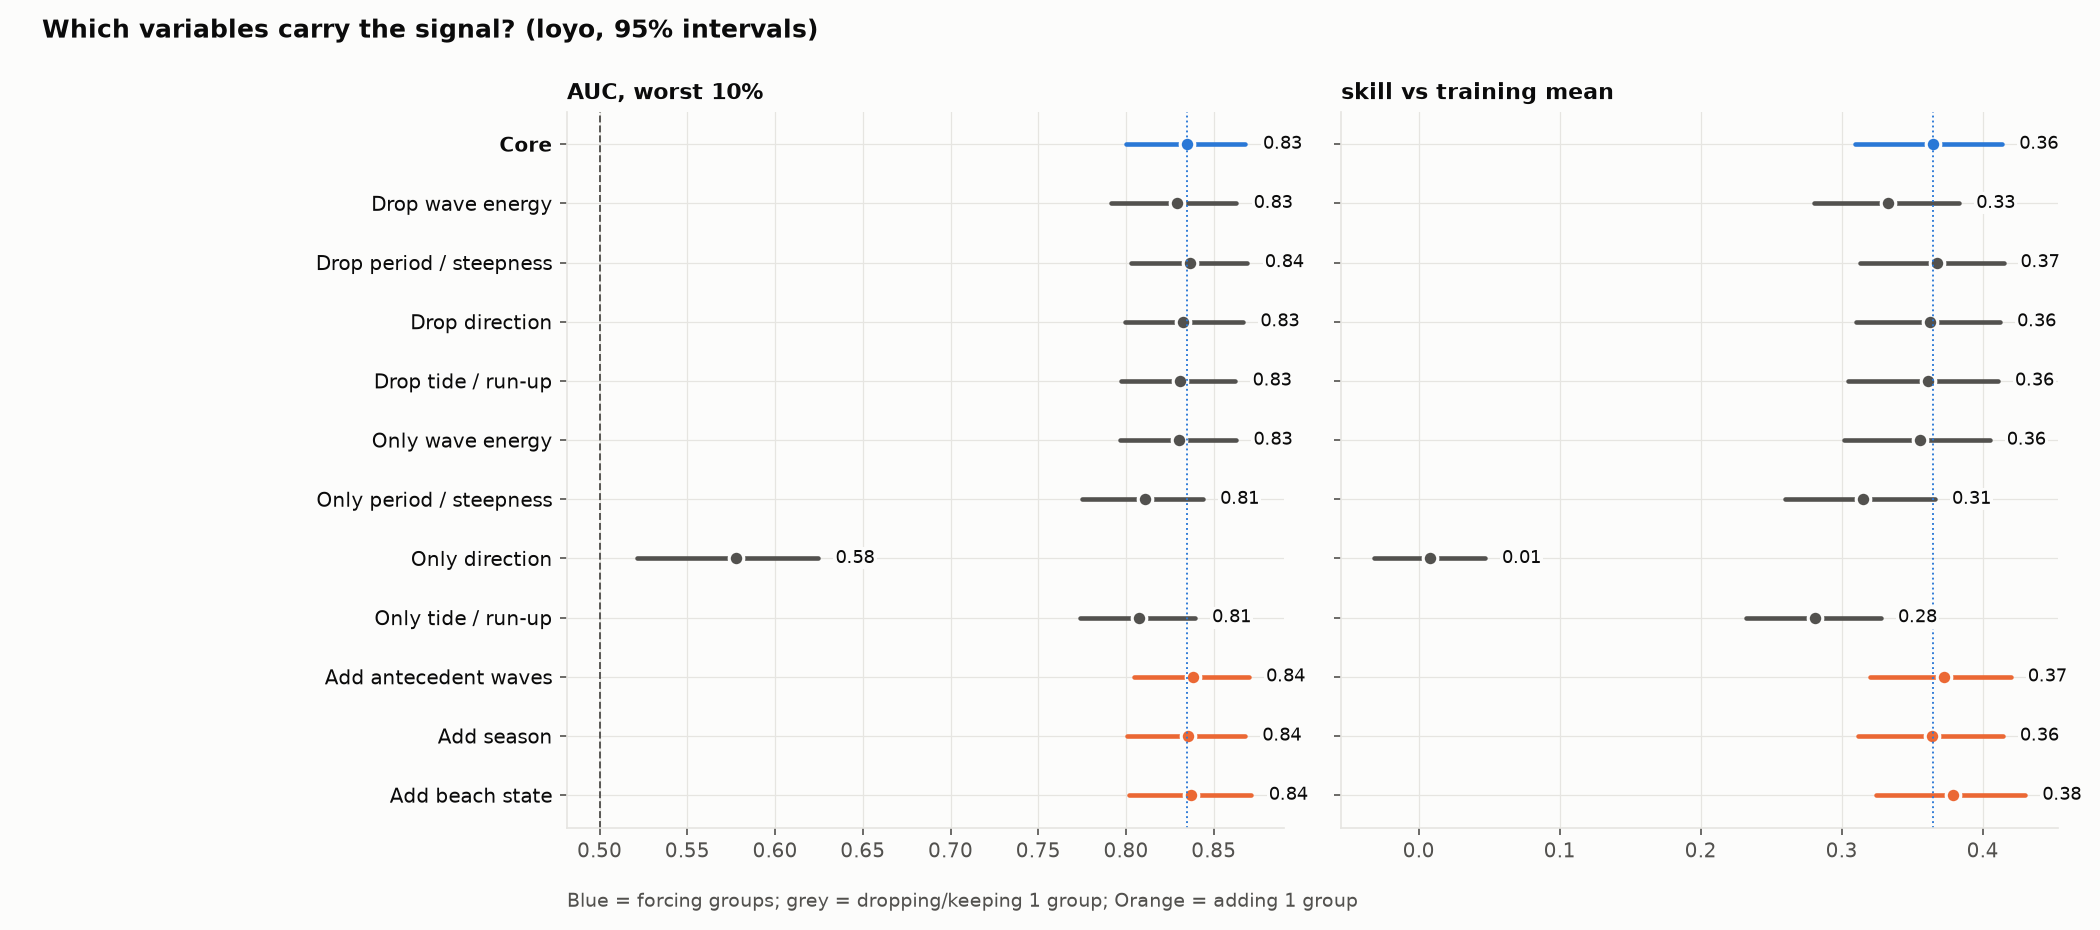
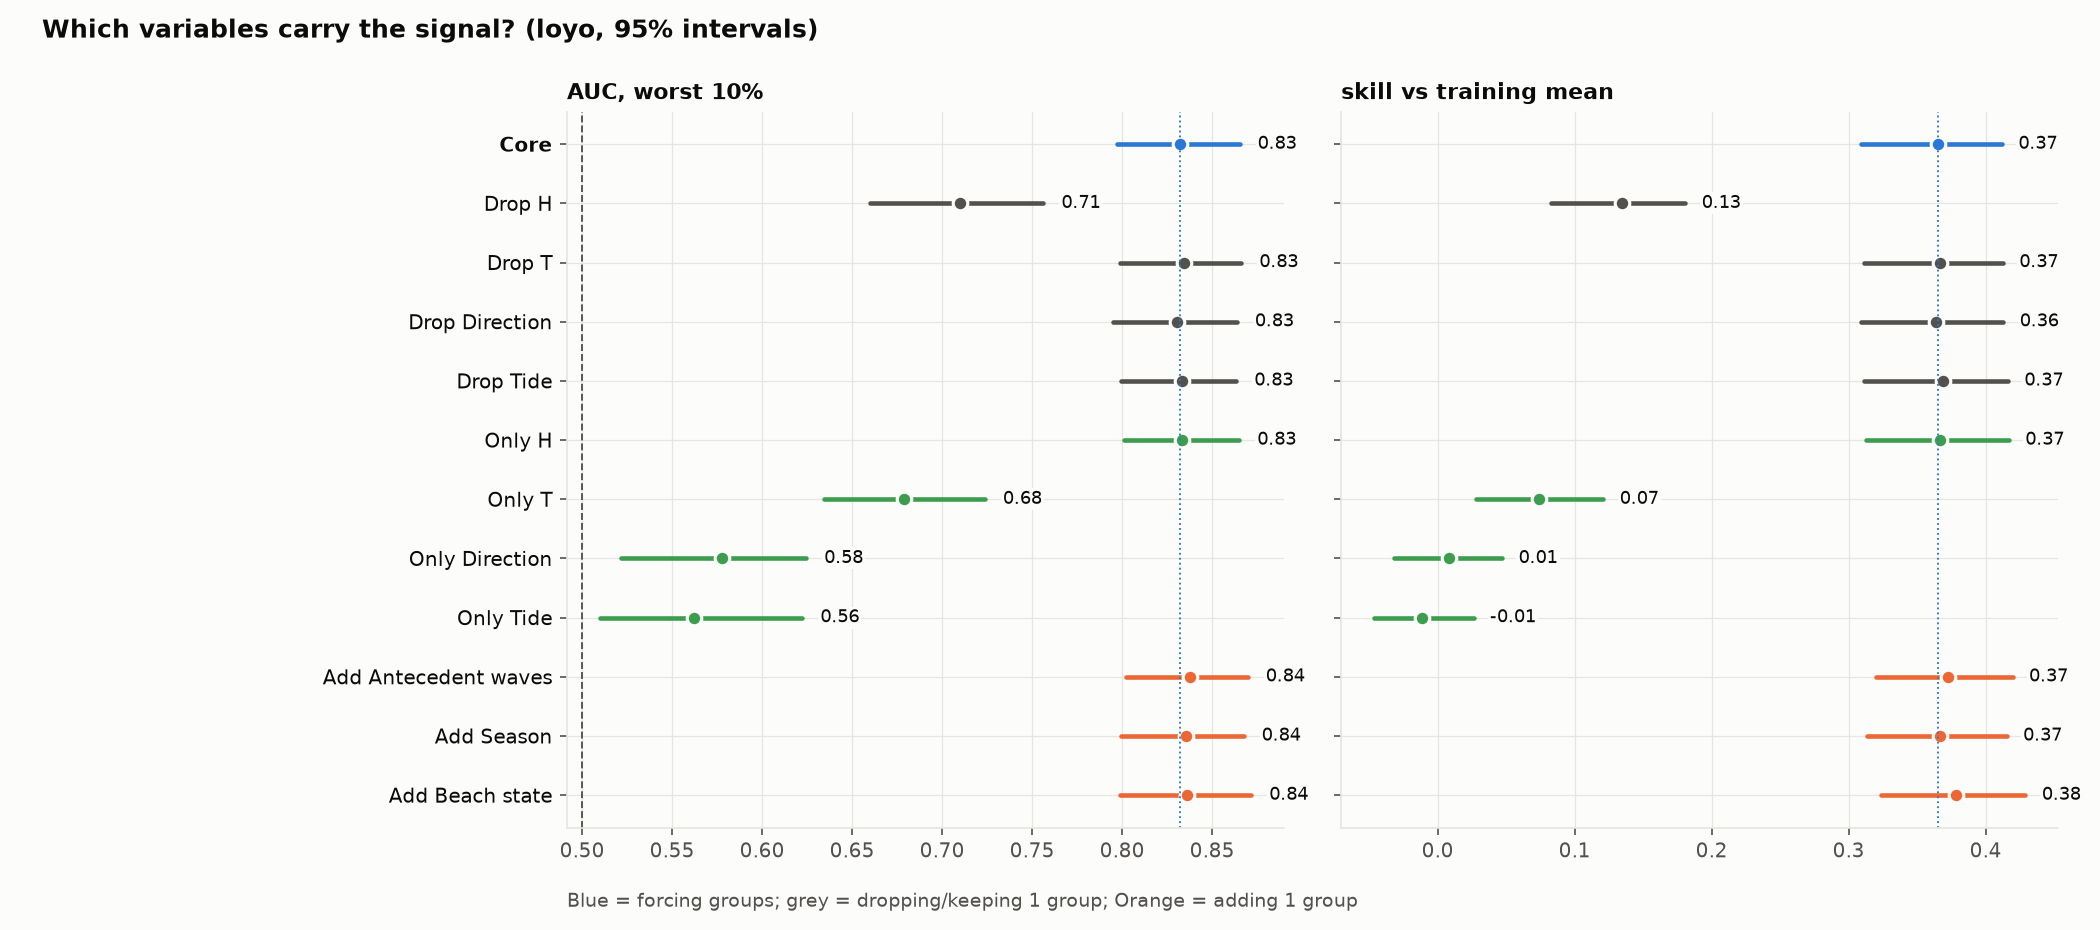
removed useless forcing variables

diff --git a/thesis/train_scalar.py b/thesis/train_scalar.py
@@ -12,10 +12,13 @@ from datetime import datetime, timedelta
 from sklearn.ensemble import RandomForestRegressor, RandomForestClassifier
 from sklearn.linear_model import LinearRegression
 from matplotlib.gridspec import GridSpec
+from scipy.stats import rankdata
 from sklearn.metrics import roc_auc_score
 
 import common
 import sys
+import matplotlib
+matplotlib.use("Agg")
 
 import numpy as np
 import matplotlib.pyplot as plt
@@ -129,16 +132,16 @@ print(f"{n_days} anchors ({DELTA}-day pairs) | erosion: mean {erosions.mean():.1
       f"extreme : erosion < {threshold:.1f} {UNIT} ({events.sum()} events)")
  
 GROUPS = {
-    "wave energy":        ["hmean", "hmax", "fluxmean", "fluxmax"],
-    "period / steepness": ["steepmean", "steepmax", "tmean", "tmax"],
-    "direction":          ["dirmean", "dirmax"],
-    "tide / run-up":      ["twlmean", "twlmax", "tidemean", "tidemax"],
-    "antecedent waves":   ["ecum_3", "ecum_14"],
-    "season":             ["season_sin", "season_cos"],
-    "beach state":        ["state_1", "state_2", "state_3"]
+    "H":                  ["hmean", "hmax"],
+    "T":                  ["tmean", "tmax"],
+    "Direction":          ["dirmean", "dirmax"],
+    "Tide":               ["tidemean", "tidemax"],
+    "Antecedent waves":   ["ecum_3", "ecum_14"],
+    "Season":             ["season_sin", "season_cos"],
+    "Beach state":        ["state_1", "state_2", "state_3"]
 }
-CORE = ["wave energy", "period / steepness", "direction", "tide / run-up"]
-EXTRA = ["antecedent waves", "season", "beach state"]
+CORE = ["H", "T", "Direction", "Tide"]
+EXTRA = ["Antecedent waves", "Season", "Beach state"]
 columns_of = lambda groups: [all_columns[n] for group in groups for n in GROUPS[group]]
 
 ### Models
@@ -274,7 +277,7 @@ evaluation_indexes = np.flatnonzero(~np.isnan(prediction))
 results = evaluate({"forest on forcing": prediction, "monthly climatology": prediction_month}, base, evaluation_indexes, reference="monthly climatology")
 
 ### Figures (done with AI, might redo later)
-BLUE, ORANGE, GREY = '#2a78d6', '#eb6834', '#8a8985'
+BLUE, ORANGE, GREY, GREEN = '#2a78d6', '#eb6834', '#8a8985', '#3c9d4e'
 INK, INK2, SURF, GRID = '#0b0b0b', '#52514e', '#fcfcfb', '#e6e5e1'
 plt.rcParams.update({
     'figure.facecolor': SURF, 'axes.facecolor': SURF, 'savefig.facecolor': SURF,
@@ -350,7 +353,6 @@ ax.set_title("C: predicted vs observed"); ax.legend(loc="upper left")
 # D) Lift by predicted-risk decile
 ax = fig.add_subplot(gs[1, 1])
 pp = probability[evaluation_indexes]; ee = events[evaluation_indexes]
-from scipy.stats import rankdata
 dec = (rankdata(pp, method="ordinal") - 1) * 10 // len(pp)         
 rate = [ee[dec == i].mean() for i in range(10)]
 ax.bar(range(10), rate, color=BLUE, width=0.7)
@@ -389,7 +391,7 @@ if TEST:
     for ax, m, ttl in ((axs[0], "auc", "AUC, worst 10%"), (axs[1], "skill", "skill vs training mean")):
         for k, y_ in zip(keys, yv):
             pt_, lo, hi = results_ablation[k][m][:3]
-            colr = BLUE if k == "Core" else (ORANGE if "Add" in k else INK2)
+            colr = BLUE if k == "Core" else (ORANGE if "Add" in k else (GREEN if "Only" in k else INK2))
             ax.plot([lo, hi], [y_, y_], color=colr, lw=2.2, solid_capstyle="round")
             ax.plot(pt_, y_, 'o', color=colr, ms=7, mec=SURF, mew=1.5)
             ax.text(hi + (0.01 if m == "auc" else 0.012), y_, f'{pt_:.2f}', va="center", fontsize=8.5, color=INK,
@@ -404,11 +406,6 @@ if TEST:
         lbl.set_color(INK); lbl.set_fontweight("bold" if k == "Core" else "normal")
     fig2.text(0.27, 0.025, "Blue = forcing groups; grey = dropping/keeping 1 group; Orange = adding 1 group", fontsize=9, color=INK2)
     fig2.savefig(OUTPUT / "ablation.png", dpi=150)
-
-try:
-    plt.show()
-except Exception:
-    pass
 
 sys.stdout = sys.__stdout__
 log.close()
